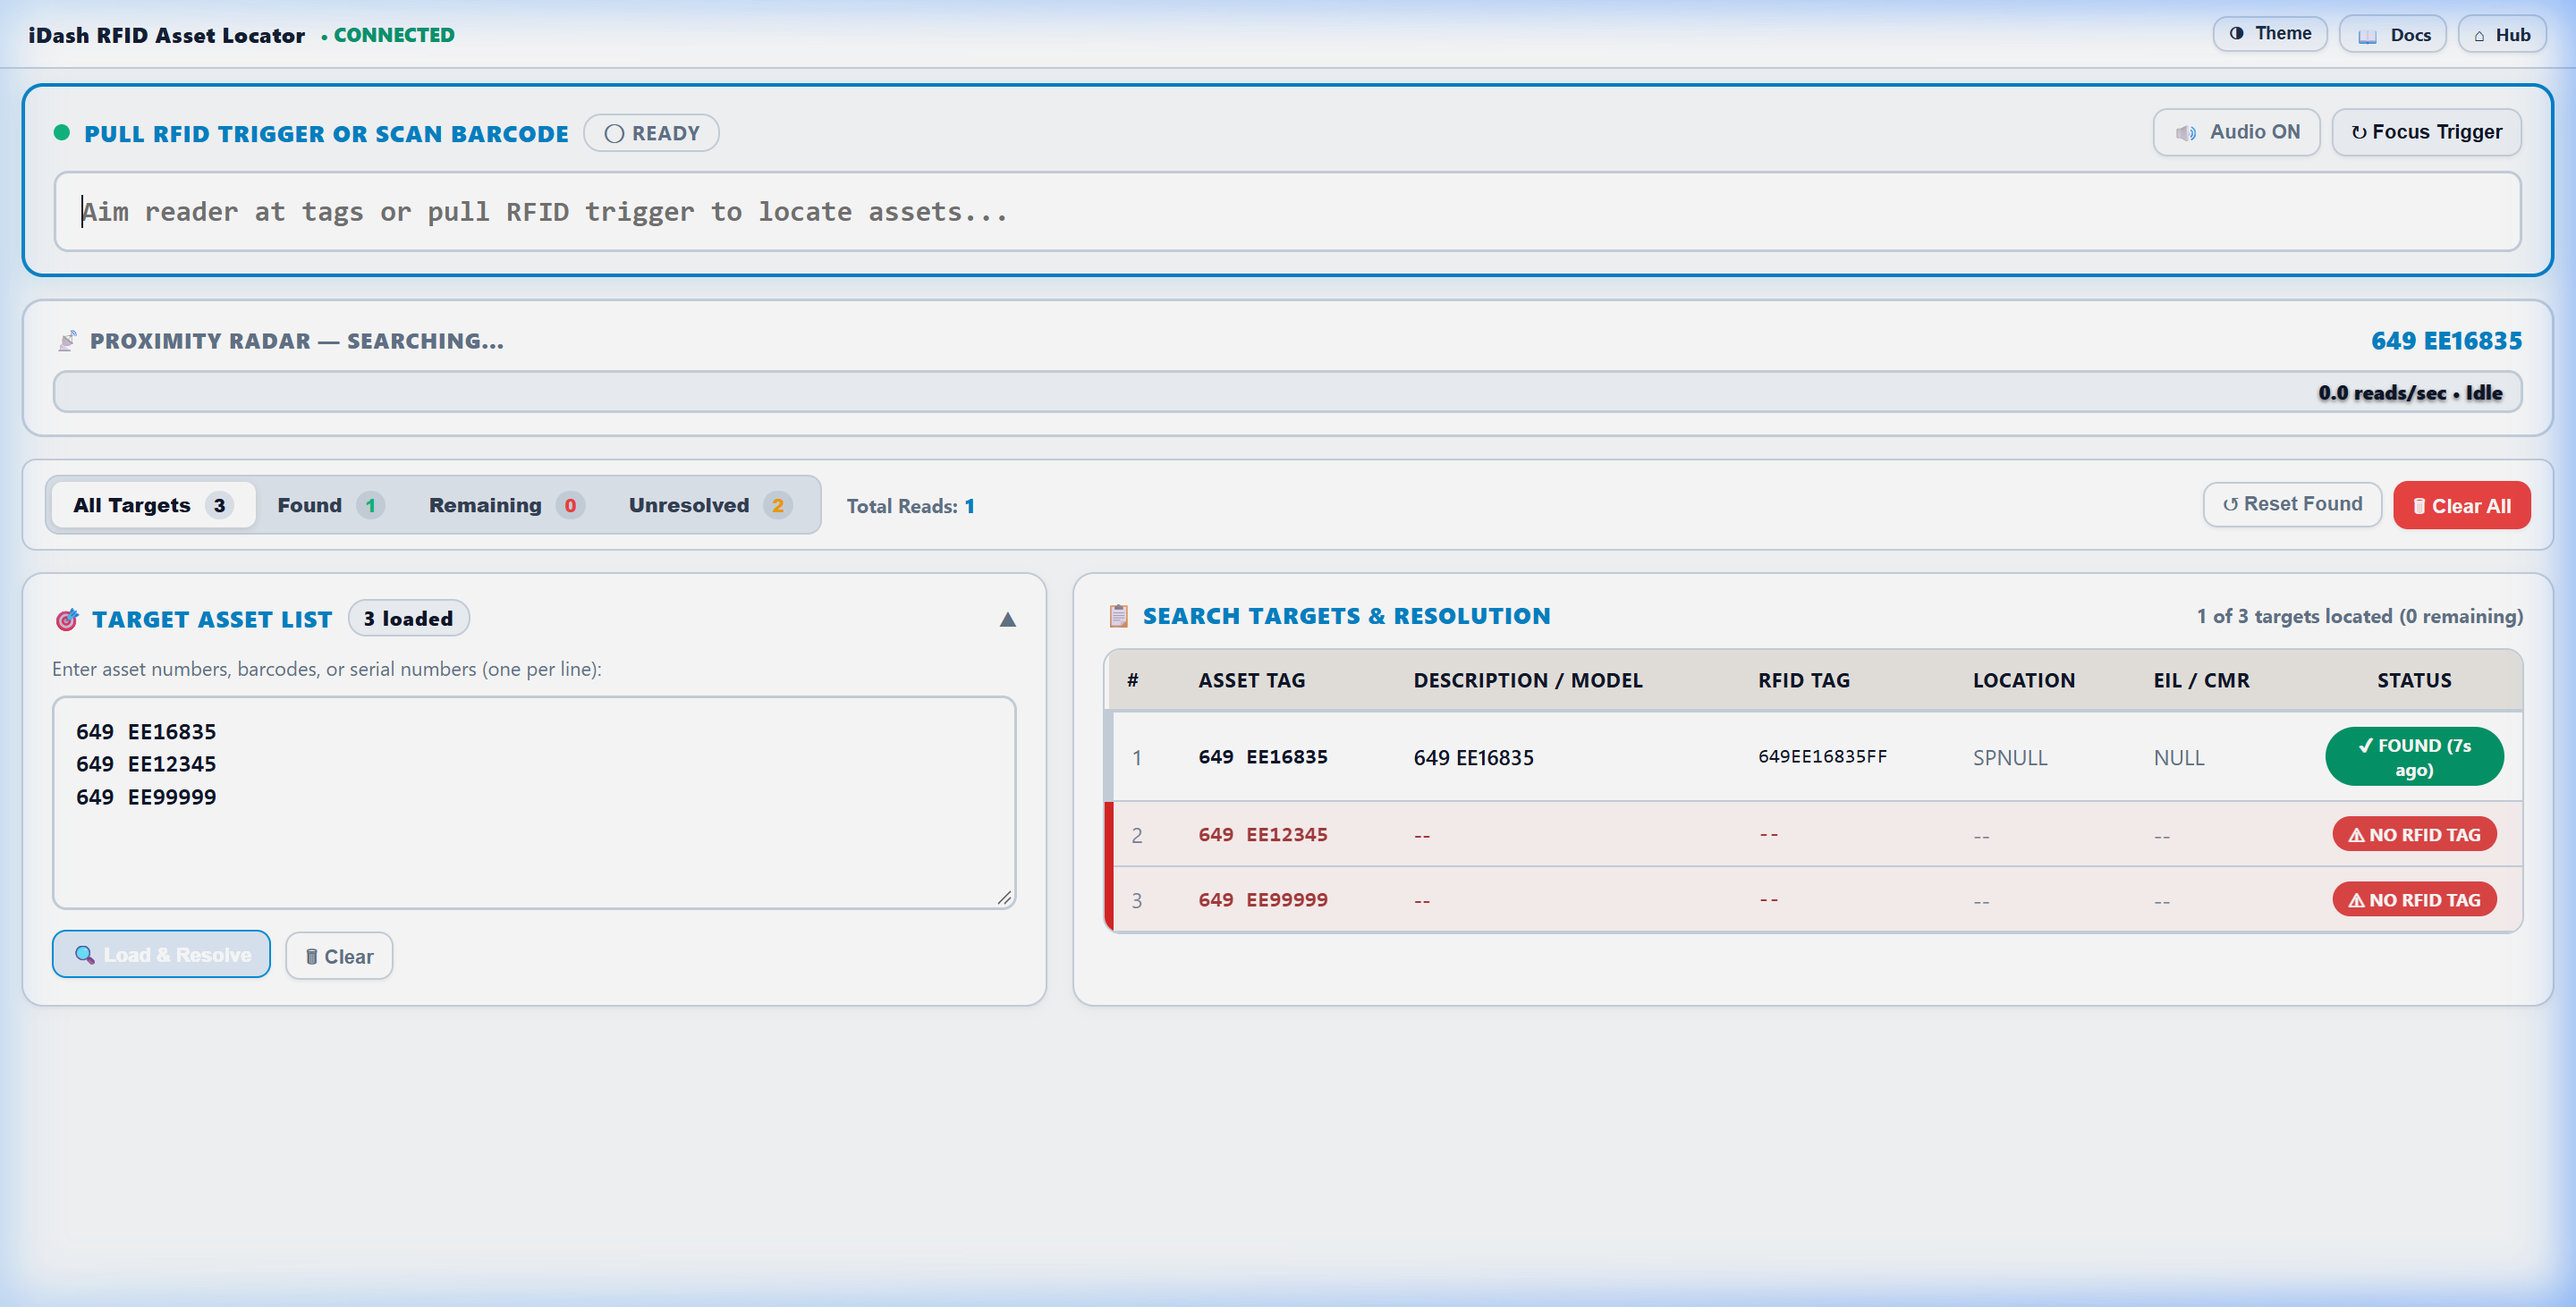
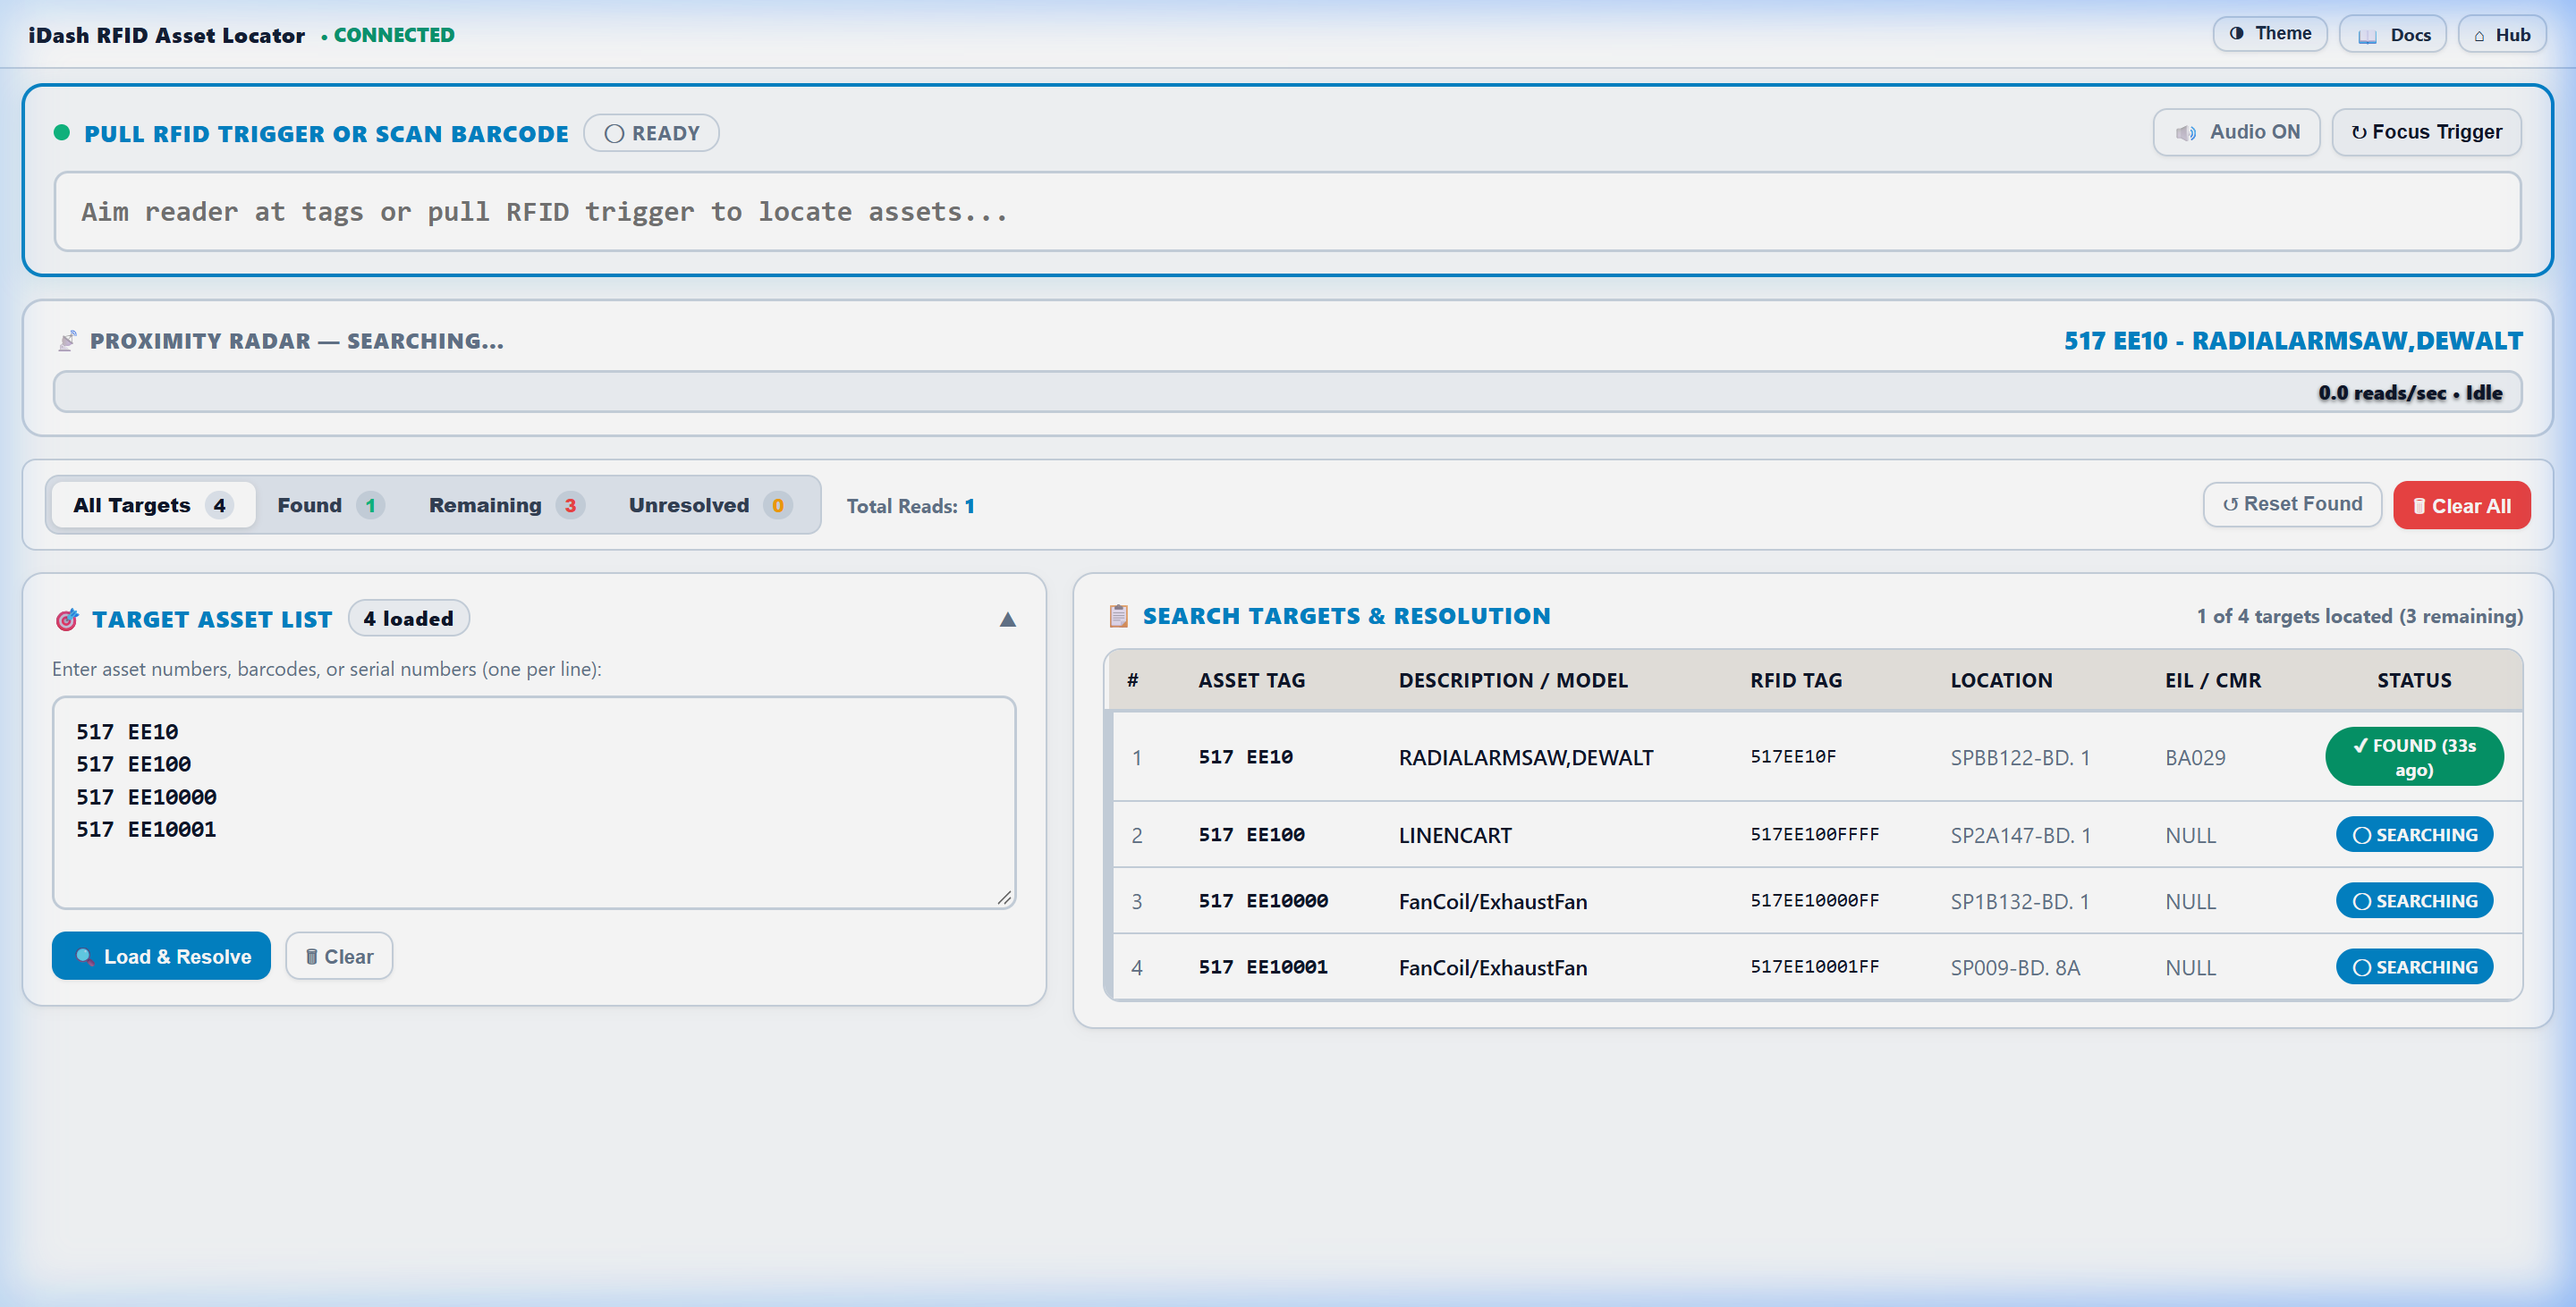
Keep Light Mode persistent on RFID locator and update documentation screenshots to use Site 517 assets

diff --git a/documentation/va_guide_locate.html b/documentation/va_guide_locate.html
@@ -282,9 +282,10 @@
                 <strong>Enter Target Identifiers:</strong> In the <strong>Target Asset List</strong> panel on the left, type or paste 
                 one or more asset numbers, barcodes, or serial numbers (one per line).<br/>
                 <em>Example:</em><br/>
-                <code>649 EE16835</code><br/>
-                <code>649 EE12345</code><br/>
-                <code>649 EE99999</code>
+                <code>517 EE10</code><br/>
+                <code>517 EE100</code><br/>
+                <code>517 EE10000</code><br/>
+                <code>517 EE10001</code>
             </div>
         </div>
 
@@ -298,14 +299,14 @@
 
         <figure class="screenshot-wrap">
             <img src="img/locate/locator_resolved.png" alt="Resolved target assets in iDash RFID Asset Locator" />
-            <figcaption>Figure 2: Target assets successfully resolved with description, RFID tag EPC, recorded location, and initial Searching status.</figcaption>
+            <figcaption>Figure 2: Target 517 assets successfully resolved from local database with description (RADIALARMSAW,DEWALT, LINENCART, FanCoil/ExhaustFan), RFID tag EPC, recorded location, and initial Searching status.</figcaption>
         </figure>
 
         <div class="alert-blue">
             <strong>&#9432; Automatic Target Resolution</strong><br/>
             &bull; <strong>Found in Database:</strong> Populates the Asset Tag, Description / Model, RFID Tag EPC, Recorded Location, and EIL / CMR, with status set to <span class="badge-ref badge-search">Searching</span>.<br/>
             &bull; <strong>Unresolved Asset:</strong> If an identifier cannot be found in the database, it is flagged as <span class="badge-ref badge-unres">Unresolved</span> so you can verify the number.<br/>
-            &bull; <strong>Deep-Link URL Pre-loading:</strong> You can launch the locator with pre-loaded assets directly by appending <code>?assets=EE12345,EE12346</code> to the URL.
+            &bull; <strong>Deep-Link URL Pre-loading:</strong> You can launch the locator with pre-loaded assets directly by appending <code>?assets=517%20EE10,517%20EE100</code> to the URL.
         </div>
     </div>
 
@@ -366,7 +367,7 @@
 
         <figure class="screenshot-wrap">
             <img src="img/locate/locator_active.png" alt="Active target lock and proximity bar in iDash RFID Asset Locator" />
-            <figcaption>Figure 3: Active target lock on asset 649 EE16835 &mdash; green proximity bar at 100%, audio pulsing, and Found status badge.</figcaption>
+            <figcaption>Figure 3: Active target lock on asset 517 EE10 (RADIALARMSAW,DEWALT) in Light Mode &mdash; green proximity bar, audio pulse indicator, and Found status badge.</figcaption>
         </figure>
 
         <div class="step">

diff --git a/va_rfid_locator.aspx.cs b/va_rfid_locator.aspx.cs
@@ -81,7 +81,8 @@ public partial class va_rfid_locator : System.Web.UI.Page
                         a.text8           AS eil,
                         a.text12          AS barcode,
                         ISNULL(l.name,'') AS locationName,
-                        ISNULL(c.name,'') AS siteName
+                        ISNULL(c.name,'') AS siteName,
+                        ISNULL(a.description,'') AS description
                     FROM dbo.asset a WITH (NOLOCK)
                     LEFT JOIN dbo.location l ON a.locationid = l.id
                     LEFT JOIN dbo.company  c ON a.companyid  = c.id
@@ -108,10 +109,11 @@ public partial class va_rfid_locator : System.Web.UI.Page
                                 rfidtag   = rdr.IsDBNull(2) ? "" : rdr.GetString(2),
                                 serial    = rdr.IsDBNull(3) ? "" : rdr.GetString(3),
                                 eil       = rdr.IsDBNull(4) ? "" : rdr.GetString(4),
-                                barcode   = rdr.IsDBNull(5) ? "" : rdr.GetString(5),
-                                location  = rdr.IsDBNull(6) ? "" : rdr.GetString(6),
-                                site      = rdr.IsDBNull(7) ? "" : rdr.GetString(7),
-                                found     = false
+                                barcode     = rdr.IsDBNull(5) ? "" : rdr.GetString(5),
+                                location    = rdr.IsDBNull(6) ? "" : rdr.GetString(6),
+                                site        = rdr.IsDBNull(7) ? "" : rdr.GetString(7),
+                                description = rdr.IsDBNull(8) ? "" : rdr.GetString(8),
+                                found       = false
                             });
                         }
                         else
